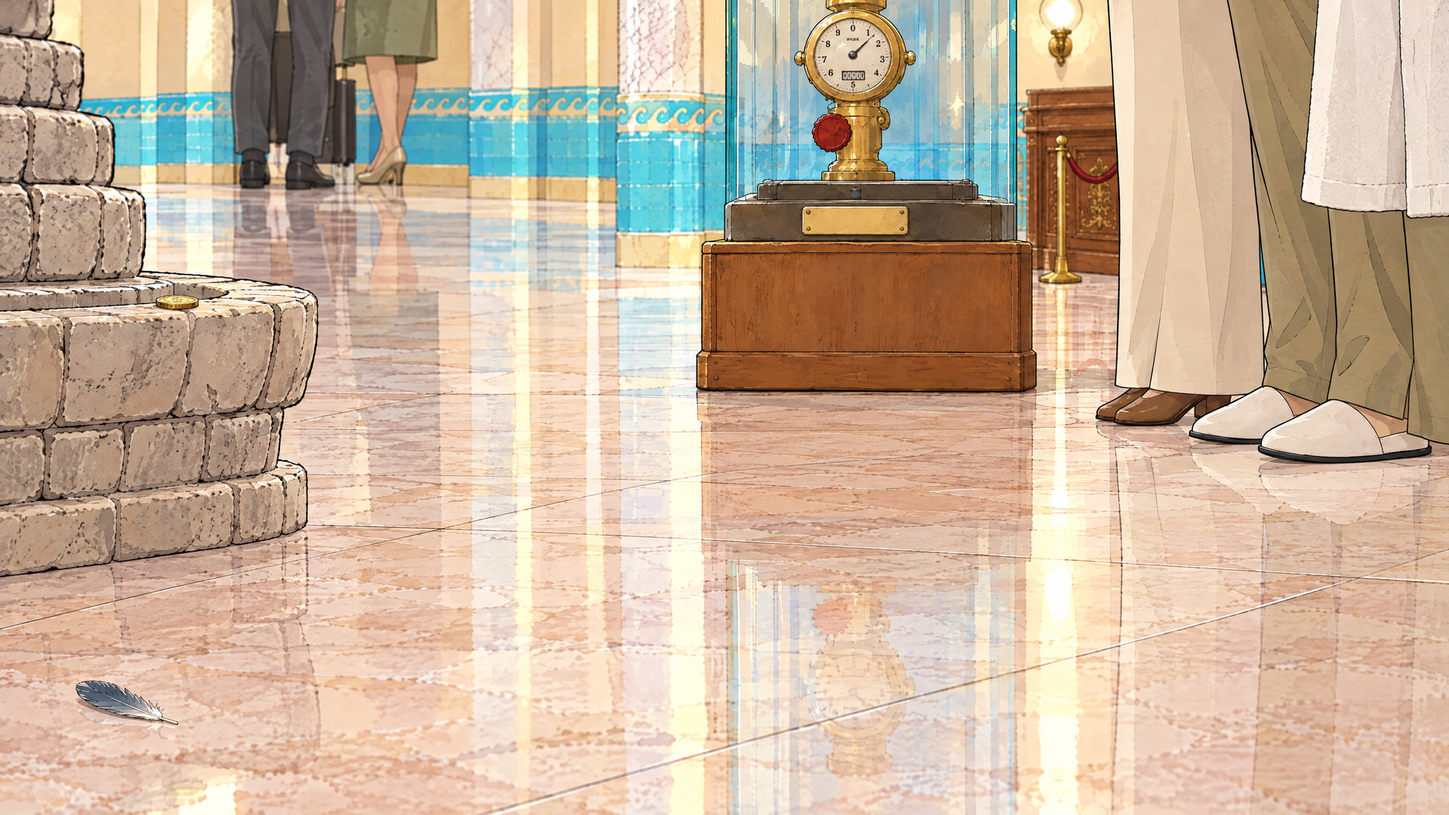
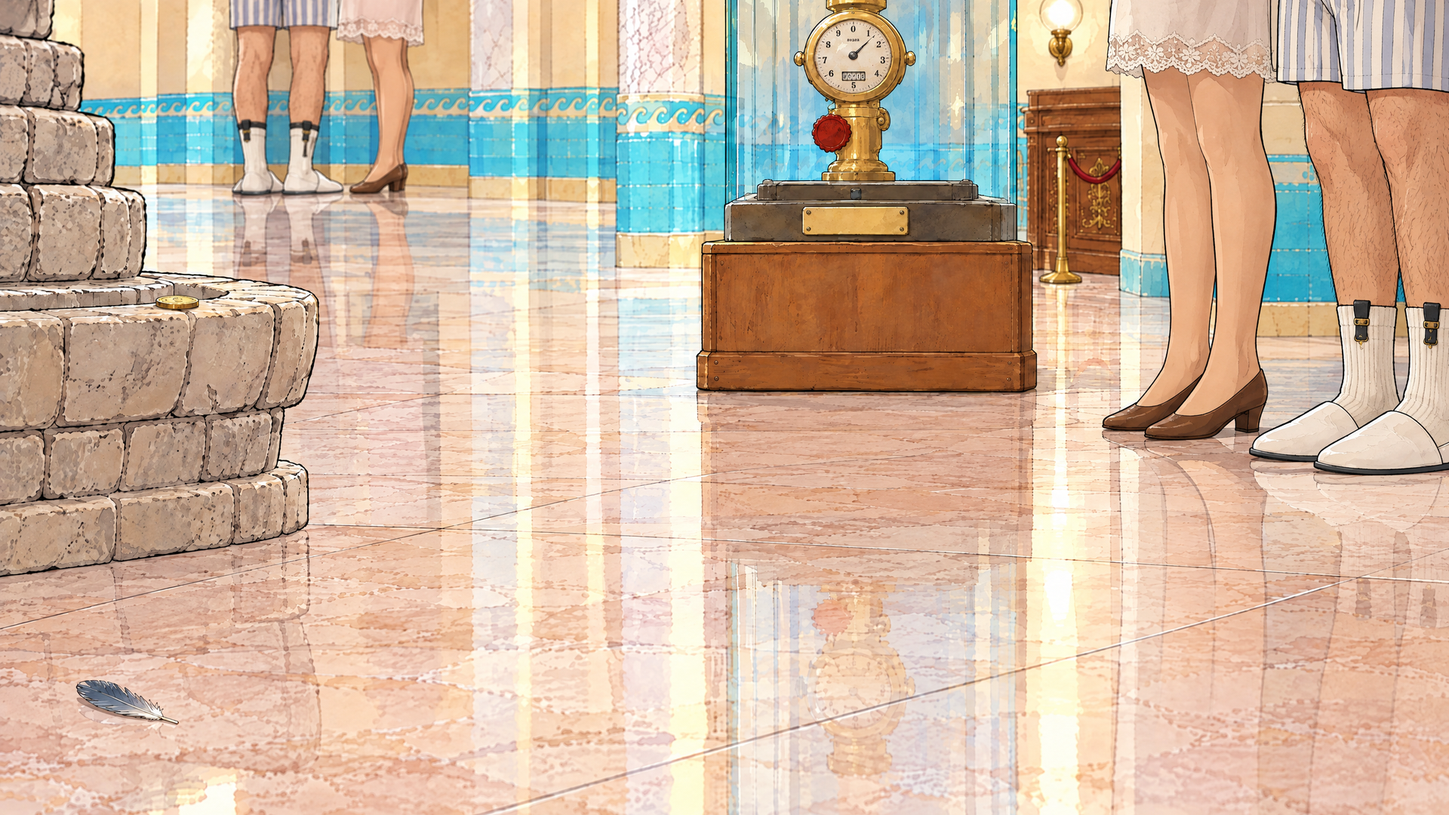
Пакет 6, ред. 2: юбка — шторка вбок; толпа полураздета во всей графике
Решения автора 12.10.2026: юбка тележки отодвигается вбок на кольцах (ov_skirt,
ov_skirt_open, fr_a3_dark переделаны; спека §2.7); гости по возможности раздеты
своими вещами (полотенца и халаты изъяты банным днём), у мужчин на голове
тюрбаном своя рубашка или кофта — в кадрах пакета и в принятых room_w2,
st_w2_cascade_on, st_w2_iz_mic, st_w2u_crowd, st_w2u_parted, zoom_z05,
fr_a4_cascade_duck (кандидаты на замену); реплика SEQ.peek.3 — «И все, как назло,
не вполне голые» (Акт I пересобран). Бейдж Изольды исправлен и в принятом слое
с микрофоном. Новый инструмент tools/assets/refresh_layers.py, grade_dark --no-protect.

Claude-Session: https://claude.ai/code/session_01Dks16BWKXJ1H75RWreeaNq

diff --git a/tools/assets/refresh_layers.py b/tools/assets/refresh_layers.py
@@ -1,0 +1,67 @@
+#!/usr/bin/env python3
+"""Очистить слои экрана от кусков старой основы после правки основы участком (ASSET_SPEC §1.2).
+
+  python tools/assets/refresh_layers.py СТАРАЯ_ОСНОВА.png НОВАЯ_ОСНОВА.png ПАПКА_СЛОЁВ ВЫХОД \
+      [--only st_a,st_b] [--diff 30] [--same 40]
+
+Слой вырезан из кадра-варианта со своим краем фона: если основу потом поправили (переодели толпу),
+в краях слоя остаются кусочки старой основы — на новой основе они видны пятнами (синий лоскут
+старых джинсов рядом со стопкой бланков). Здесь у каждого слоя этой основы (по cutouts.json папки)
+там, где основа изменилась (разница > --diff), гасится альфа пикселей, почти совпадающих со старой
+основой (разница < --same): это не предмет слоя, а его фон. Предмет, отличный от старой основы,
+остаётся. Слои, которым нечего чистить, не пишутся. ВЫХОД — папка для исправленных слоёв (кандидаты);
+cutouts.json туда пишется с теми же координатами.
+"""
+import argparse
+import json
+from pathlib import Path
+
+import numpy as np
+from PIL import Image, ImageFilter
+
+
+def main(argv=None):
+    ap = argparse.ArgumentParser()
+    ap.add_argument("old")
+    ap.add_argument("new")
+    ap.add_argument("layers")
+    ap.add_argument("out")
+    ap.add_argument("--only", default="")
+    ap.add_argument("--diff", type=int, default=30)
+    ap.add_argument("--same", type=int, default=40)
+    a = ap.parse_args(argv)
+    old = np.asarray(Image.open(a.old).convert("RGB")).astype(int)
+    new = np.asarray(Image.open(a.new).convert("RGB")).astype(int)
+    changed = np.abs(old - new).max(2) > a.diff
+    changed = np.asarray(Image.fromarray(changed.astype("uint8") * 255).filter(ImageFilter.MaxFilter(5))) > 0
+    src = Path(a.layers)
+    coords = json.loads((src / "cutouts.json").read_text(encoding="utf-8"))
+    only = set(filter(None, a.only.split(",")))
+    out = Path(a.out)
+    out.mkdir(parents=True, exist_ok=True)
+    out_json = out / "cutouts.json"
+    out_coords = json.loads(out_json.read_text(encoding="utf-8")) if out_json.exists() else {}
+    base_name = Path(a.old).name
+    for name, v in sorted(coords.items()):
+        if v["base"] != base_name or (only and name not in only):
+            continue
+        x, y, w, h = v["x"], v["y"], v["w"], v["h"]
+        lay = np.asarray(Image.open(src / f"{name}.png").convert("RGBA")).astype(int)
+        ch = changed[y:y + h, x:x + w]
+        stale = ch & (lay[..., 3] > 0) & (np.abs(lay[..., :3] - old[y:y + h, x:x + w]).max(2) < a.same)
+        if not stale.any():
+            continue
+        # мягкий край: гасим с растушёвкой 2 px, чтобы не было рваной кромки
+        m = Image.fromarray((stale * 255).astype("uint8")).filter(ImageFilter.MaxFilter(3)).filter(
+            ImageFilter.GaussianBlur(1.5))
+        keep = 1 - np.asarray(m).astype(float) / 255
+        lay[..., 3] = (lay[..., 3] * keep).astype(int)
+        Image.fromarray(lay.astype("uint8"), "RGBA").save(out / f"{name}.png")
+        out_coords[name] = v
+        print(f"{name}: погашено {int(stale.sum())} px старой основы")
+    out_json.write_text(json.dumps(dict(sorted(out_coords.items())), ensure_ascii=False, indent=1) + "\n",
+                        encoding="utf-8")
+
+
+if __name__ == "__main__":
+    main()

diff --git a/tools/assets/grade_dark.py b/tools/assets/grade_dark.py
@@ -10,7 +10,8 @@
 
 Коррекция: в линейном свете яркость умножается на --k, светлые места (лампы, блики) защищены —
 чем ярче пиксель, тем меньше его гасят; тени холодеют (меньше красного, больше синего);
-по краям кадра виньетка.
+по краям кадра виньетка. --no-protect — без защиты светлого: для оверлея юбки
+(ov_skirt_dark), где светлая ткань не лампа и должна погаснуть вместе с кадром.
 """
 import argparse
 
@@ -20,12 +21,12 @@ from PIL import Image
 W, H = 1920, 1080
 
 
-def grade(rgb, ox, oy, k):
+def grade(rgb, ox, oy, k, keep_lights=True):
     s = rgb / 255.0
     lin = s ** 2.2
     lum = 0.2126 * s[..., 0] + 0.7152 * s[..., 1] + 0.0722 * s[..., 2]
     t = np.clip((lum - 0.55) / 0.40, 0, 1)
-    protect = t * t * (3 - 2 * t)
+    protect = t * t * (3 - 2 * t) if keep_lights else np.zeros_like(t)
     f = k + (1 - k) * 0.85 * protect
     out = lin * f[..., None]
     cool = 1 - protect
@@ -44,12 +45,14 @@ def main(argv=None):
     ap.add_argument("dst")
     ap.add_argument("--offset", default="0,0")
     ap.add_argument("--k", type=float, default=0.32)
+    ap.add_argument("--no-protect", action="store_true",
+                    help="не беречь светлое: для ткани юбки, которая светлая сама по себе, а не лампа")
     a = ap.parse_args(argv)
     ox, oy = map(int, a.offset.split(","))
     im = Image.open(a.src)
     rgba = im.mode == "RGBA"
     arr = np.asarray(im.convert("RGBA" if rgba else "RGB")).astype(float)
-    out = grade(arr[..., :3], ox, oy, a.k)
+    out = grade(arr[..., :3], ox, oy, a.k, keep_lights=not a.no_protect)
     if rgba:
         out = np.dstack([out, arr[..., 3].astype(np.uint8)])
     Image.fromarray(out, "RGBA" if rgba else "RGB").save(a.dst)

diff --git a/work/higgsfield/candidates/pack6_1012/README.md b/work/higgsfield/candidates/pack6_1012/README.md
@@ -1,55 +1,72 @@
-# Пакет 6 (12.10.2026): юбка тележки и кадры немых сцен
+# Пакет 6 (12.10.2026): юбка тележки, кадры немых сцен, полураздетая толпа
 
-Листы для автора: `work/higgsfield/sheet_1012_pack6_frames.png` (17 кадров; виды из-под юбки показаны уже с наложенной юбкой, как их увидит игрок) и `work/higgsfield/sheet_1012_pack6_skirt.png` (юбка на принятых кадрах, тёмный вариант, шторка у экспоната). Всё здесь — кандидаты; в `assets/` попадает только после «да» автора.
+Листы для автора: `work/higgsfield/sheet_1012_pack6_frames.png` (17 кадров; виды из-под юбки показаны уже с наложенной юбкой, как их увидит игрок), `work/higgsfield/sheet_1012_pack6_skirt.png` (юбка на принятых кадрах, тёмный вариант, шторка у экспоната) и `work/higgsfield/sheet_1012_pack6_crowd.png` (принятые картинки с толпой: было / стало). Всё здесь — кандидаты; в `assets/` попадает только после «да» автора.
 
-Генератор — GPT Image 2.5, high 2k, 16:9 (решение автора 12.10.2026: модель не меняем). Правило партии то же, что в пакете 5: каждая вещь рисуется по кадру, где она уже нарисована и принята. Референсы (записи `upload` в `log.jsonl`): `room_w1`, `room_w2` с Изольдой, двери служебного лифта из `room_w2`, `room_w2_under` и толпа `st_w2u_crowd`, `room_w3`, `room_w4`, `zoom_z02`, `zoom_z03` (ткань юбки), `zoom_z05`, `zoom_z11`, жетон из Z13, мыльная рука из Z11. Яркость всех кадров — 33–72 %; исключение — `fr_a3_dark` (5 %, разрешено решением автора 06.10.2026).
+Генератор — GPT Image 2.5, high 2k (решение автора 12.10.2026: модель не меняем). Правило партии то же, что в пакете 5: каждая вещь рисуется по кадру, где она уже нарисована и принята. Референсы — записи `upload` в `log.jsonl`. Яркость всех кадров 33–75 %; исключение — `fr_a3_dark` (8 %, разрешено решением автора 06.10.2026).
+
+## Решения автора 12.10.2026 (вторая половина дня)
+
+1. **Юбка — шторка вбок.** «Юбка везде нарисована неправильно: мы решили, что она отодвигается вбок как шторка, а не поднимается вверх как театральный занавес». Первая редакция (ткань с бахромой свисает сверху) снята. Теперь сверху видны низ столешницы, латунная штанга и кольца, ткань сдвинута к краям и висит до пола, бахрома только внизу. Спека §2.7 поправлена.
+2. **Толпа полураздета на всех картинках, включая принятые.** «Смешнее, если люди по возможности раздеты; особенно смешно, если у некоторых мужчин полотенце по-женски завёрнуто на голове». Полотенца и халаты по объявлению банного дня изъяты, поэтому по ответу автора гости в своём: майки, подтяжки, семейные трусы, кальсоны, носки на подвязках, комбинации, ночнушки, бигуди, а мужчины наматывают на голову по-женски свою рубашку или кофту. Спека §1.4 поправлена.
+3. **Реплика `SEQ.peek.3`:** «Человек сорок. И все, как назло, не вполне голые» — слово автора; внесено в `texts/rewrite/ACT1_TEXTS_EDITS.md`, `ACT1_TEXTS_FINAL.md` пересобран, `check_texts.py` — без ошибок.
 
 ## Юбка тележки (оверлеи, §2.7)
 
 | Файл | Что | Проба |
 |---|---|---|
-| `ov_skirt.png` | края юбки изнутри: сверху полоса затенённой ткани, по её нижнему краю висит бахрома, по бокам — боковые полотнища, низ открыт; сквозь ткань чуть проступают швы кармашков (та же юбка, что в Z03, только с изнанки) | 81f72fc3 (вторая из трёх) |
-| `ov_skirt__alt3.png` | то же, темнее и без кармашков | f8fd613c |
-| `ov_skirt__alt1.png` | первая проба: светлая, как занавес снаружи; отклонена мной (видна лицевая сторона, «театр») | 552df629 |
-| `ov_skirt__dark.png` | `ov_skirt` после той же коррекции `grade_dark.py`, что тёмные кадры до появления Кухтулху (см. вопрос 1) | — |
-| `ov_skirt_open.png` | шторка отодвинута: ткань собрана на кольцах у краёв (по 12 % ширины), сверху край столешницы (8 %); для Z05 | 7052eeed |
+| `ov_skirt.png` | шторка отодвинута вбок: сверху полоса 9 % — низ столешницы, рама, штанга, кольца; по бокам ткань висит от колец до пола (по 10 % ширины), бахрома у пола | 7534bce7 |
+| `ov_skirt__alt2.png` | то же, правое полотнище шире | 48c586ba |
+| `ov_skirt__dark.png` | `ov_skirt` после `grade_dark.py --no-protect --k 0.30` — для тёмных кадров до появления Кухтулху (вопрос 1) | — |
+| `ov_skirt_open.png` | шторка отодвинута до упора: ткань туго собрана у краёв (по 9 %), сверху штанга; для Z05 | 1841b488 |
 
-Генератор рисовал юбку на мадженте. `tools/assets/skirt_overlay.py` (новый) вырезает мадженту и подтягивает верхнюю полосу: у генератора бахрома кончалась на 38 % высоты, по спеке — 18–22 %. Лишняя ткань сверху срезается, бахрома остаётся в натуральную величину и кончается на 21 %; бока — 8 % ширины (спека 8–10 %). Проверено на всех видах из-под юбки: ноги, предметы и лампа поста в кадре лифта под юбку не уходят.
+Юбка нарисована на мадженте; `tools/assets/skirt_overlay.py` (новый) вырезает мадженту без розовой каймы и, если надо, подтягивает верхнюю полосу к норме спеки. `tools/assets/grade_dark.py` получил ключ `--no-protect`: светлая ткань не лампа и должна гаснуть вместе с кадром.
 
 ## Кадры (§4.1)
 
 | Файл | Кадр | Что | Проба |
 |---|---|---|---|
-| `fr_a1_voucher.png` | `OPEN.1_voucher` | сухие руки в рукавах тёмно-синего пиджака (того, что потом крутится в барабане W3) держат путёвку с гильоширной рамкой, строчки — в размытие; позади номер 317 как на `room_w1`, душевая с уточкой. Гэг: вместо скрепки морская звезда | 7c2820ff |
-| `fr_a1_corridor.png` | `SEQ.peek.1_corridor` | из двери номера: пустой коридор, ковровая дорожка, в конце двери служебного лифта (латунные, с ракушкой — как в вестибюле); мыльная рука на косяке. Гэги: ботинки у двери с ракушкой внутри, поднос с пустой подставкой для яйца | 325befca |
-| `fr_a1_lift_panel.png` | `SEQ.peek.2_lift` | панель: «5», «4», «3», «2», «Вестибюль»; на месте снятых кнопок — две заглушки на винтах (служебных этажей нет — это и видно); мыльный палец у «Вестибюля». Гэг: морская звезда-наклейка | abbe3af7 |
-| `fr_a1_lobby_peek.png` | `SEQ.peek.3_lobby` | щель дверей лифта: людный вестибюль, толпа у стойки **одета** (маска на лице, зубная щётка, пена для бритья, бигуди под платком), Изольда смотрит мимо и прижимает папкой мокрый круг с лучами, над толпой «Банный день», каскад сухой | 1083d9fe (четвёртая из пяти) |
-| `fr_a1_lobby_waiter.png` | `SEQ.peek.4_waiter` | тот же вид: официант катит тележку (звёзды, юбка с кармашками) сквозь толпу, гости расступаются, не глядя; Изольда поднимает откидную секцию стойки, глаз не поднимает | ca6c1b78 (от 1083d9fe); запасная — `__alt4` (5634b4ca) |
-| `fr_a1_lift_close.png` | `SEQ.peek.5_back` | латунные створки почти сошлись, в щели — полоска вестибюля | 48b07ab3 (от 1083d9fe) |
-| `fr_a1_under_room.png` | `SEQ.drive.1_under` | из-под юбки в номере: мыльная рука на нижнем латунном поручне, ковёр, закрытая дверь с листком, крючки. Гэги: носок и пуговица под кроватью | df050f8c |
-| `fr_a1_under_liftdoors.png` | `SEQ.drive.2_lift` | из кабины: латунный порог, «мрамор», ботинки, туфли, тапочки. Гэг: потерянный синий тапок (тот же, что на `room_w2_under`), скомканная жалоба | 18c07126 |
-| `fr_a1_under_lobby.png` | `SEQ.drive.3_lobby` | посреди вестибюля: ноги идут мимо, к тележке никто не повёрнут; вдали основание сухого каскада. Гэги: волочится пояс халата, детская сандалия | e69587ab |
-| `fr_a1_under_service.png` | `END.act1`, `SEQ.shout.5` | за стойкой: внутренние полки (бланки, папки, штемпели, термос, клубок), туфли Изольды в профиль, слева закрытая калитка, под ней — ноги толпы. Гэг: морская звезда как пресс-папье | 37189200 |
-| `fr_a2_under_exhibit.png` | `SEQ.exhibit.go` | у экспоната: витрина со счётчиком, у таблички бежевые брюки с туфлями и белые тапочки (те же ноги, что в Z05), слева сухой каскад. Гэг: монетка на бортике и перо | e269e3db |
-| `fr_a3_lobby_hush.png` | `SEQ.report` | вестибюль затих: все ноги повёрнуты к громкоговорителю на колонне справа; брошенный тапок носком в другую сторону, опрокинутая чашка | 6c6a9add (третья из трёх); запасная `__alt1` (ed6be58e) |
-| `fr_a3_ride_under.png` | `SEQ.ride` | из-под юбки в кабине 1908 года: мыльная рука задёргивает латунную решётку, за прутьями горит лампа поста (под юбкой не прячется); на полу крошки круассана | 42a6214f (вторая; в первой `__alt1`, c4ed249f, лампа уходила под верх юбки) |
-| `fr_a3_dark.png` | `SEQ.descent` | темнота под юбкой, складки и кармашки едва видны, под краем бахромы — тонкая полоска тёплого света. Юбка здесь нарисована в самом кадре (спека §4.2: в `SEQ.descent` оверлея нет) | a3ec8012 (от `ov_skirt`); запасная `__alt2` (f4964c8b, темнее, 3 %) |
-| `fr_epi_laundry.png` | `EPI.*` | прачечная как `room_w3`, вода есть: барабаны крутятся, люк ближней машины открыт и парит, на машине сложены пиджак, рубашка, галстук, пар; мокрый пол | bdaff360 |
-| `fr_epi_minibar.png` | `EPI.0–2` | как `zoom_z02`: на ручке новое меню (чистая карточка), в мини-баре кефир вместо комбучи. Гэг: моль из Z02 сидит на крышке кефира | c8bc17fb |
-| `fr_epi_bath17.png` | `EPI.3` | коридор водолечебницы 1908 года: дверь с эмалевой табличкой «№ 17», над табличкой латунный жетон с пробитой серединой, из-под двери пар. Гэг: у двери тапки — белый и синий | ad8561dc |
+| `fr_a1_voucher.png` | `OPEN.1_voucher` | сухие руки в рукавах тёмно-синего пиджака держат путёвку с гильоширной рамкой, строчки в размытие; позади номер 317, душевая с уточкой. Гэг: морская звезда вместо скрепки | 7c2820ff |
+| `fr_a1_corridor.png` | `SEQ.peek.1_corridor` | из двери номера: пустой коридор, ковровая дорожка, в конце латунные двери служебного лифта; мыльная рука на косяке. Гэги: ботинки с ракушкой, поднос с пустой подставкой для яйца | 325befca |
+| `fr_a1_lift_panel.png` | `SEQ.peek.2_lift` | «5», «4», «3», «2», «Вестибюль»; на месте снятых кнопок — заглушки на винтах; мыльный палец у «Вестибюля». Гэг: морская звезда-наклейка | abbe3af7 |
+| `fr_a1_lobby_peek.png` | `SEQ.peek.3_lobby` | щель дверей лифта: у стойки полураздетая толпа (майки, подтяжки, трусы в полоску, носки на подвязках, комбинации, бигуди, у мужчин свитер тюрбаном; маска на лице, зубная щётка, пена для бритья), Изольда одета, смотрит мимо, прижимает папкой мокрый круг с лучами; «Банный день», сухой каскад | 4760d6bf; бейдж переписан |
+| `fr_a1_lobby_waiter.png` | `SEQ.peek.4_waiter` | тот же вид: официант с тележкой сквозь толпу, гости расступаются, не глядя; Изольда поднимает откидную секцию стойки, глаз не поднимает | 56d37be6 (от 4760d6bf); бейдж переписан |
+| `fr_a1_lift_close.png` | `SEQ.peek.5_back` | створки почти сошлись, в щели — полоска вестибюля и гость в майке со свитером на голове | 03cbccdf |
+| `fr_a1_under_room.png` | `SEQ.drive.1_under` | из-под юбки в номере: мыльная рука на нижнем латунном поручне, ковёр, закрытая дверь с листком. Гэги: носок и пуговица под кроватью | df050f8c |
+| `fr_a1_under_liftdoors.png` | `SEQ.drive.2_lift` | из кабины: латунный порог, «мрамор», ноги в носках на подвязках, комбинации, тапки, босые ступни. Гэг: потерянный синий тапок | 771187f1 |
+| `fr_a1_under_lobby.png` | `SEQ.drive.3_lobby` | посреди вестибюля: ноги в пижамных шортах и носках на подвязках идут мимо, к тележке никто не повёрнут; вдали сухой каскад. Гэги: детская сандалия, волочится пояс | ae4c4205 (первая проба генератор не нарисовал — отказ по содержанию; формулировка смягчена) |
+| `fr_a1_under_service.png` | `END.act1`, `SEQ.shout.5` | за стойкой: полки с бланками, штемпелями, термосом; туфли Изольды в профиль (она одета), слева закрытая калитка, под ней — ноги толпы в носках на подвязках и тапках | 9e657d2f |
+| `fr_a2_under_exhibit.png` | `SEQ.exhibit.go` | у экспоната: витрина со счётчиком; у таблички — те же двое, что в Z05: она в комбинации и коричневых туфлях, он в трусах в полоску, носках на подвязках и тапках | f107a176 |
+| `fr_a3_lobby_hush.png` | `SEQ.report` | вестибюль затих: все ступни в профиль повёрнуты к громкоговорителю на колонне справа; брошенный тапок носком в другую сторону, опрокинутая чашка | 505a3247 |
+| `fr_a3_ride_under.png` | `SEQ.ride` | из-под юбки в кабине 1908 года: мыльная рука задёргивает латунную решётку, за прутьями горит лампа поста; крошки круассана | 42a6214f |
+| `fr_a3_dark.png` | `SEQ.descent` | шторка задёрнута вокруг (кольца на штанге наверху, швы кармашков), почти черно, под подолом с бахромой — полоска тёплого света; юбка в самом кадре, оверлея нет (§4.2) | 3b35f866 |
+| `fr_epi_laundry.png` | `EPI.*` | прачечная, вода есть: барабаны крутятся, люк ближней машины открыт и парит, на машине сложены пиджак, рубашка, галстук | bdaff360 |
+| `fr_epi_minibar.png` | `EPI.0–2` | как Z02: на ручке новое меню (чистая карточка), кефир вместо комбучи. Гэг: моль на крышке кефира | c8bc17fb |
+| `fr_epi_bath17.png` | `EPI.3` | коридор водолечебницы: дверь с табличкой «№ 17», жетон с пробитой серединой, пар из-под двери. Гэг: тапки — белый и синий | ad8561dc |
 
-**Исправлено после генерации.** (1) В первых пробах вестибюля (3783efc7, 30478c05, c4f2d129) толпа была в халатах и полотенцах, у одного голый торс, у одной гостьи лифчик. А в тексте `SEQ.peek.3` Лапидус говорит: «Человек сорок. И все, как назло, одетые». Перерисовано (1083d9fe), официант и закрытие дверей — заново от новой пробы. Кроме того, в одной из проб (3783efc7) в глубине вестибюля стоял тот самый лифт, из которого мы смотрим. (2) На бейдже Изольды генератор написал «И. С. Травина»; надпись переписана на «И. Т. Итьева» (`tools/assets/badge_text.py`, новый) в `fr_a1_lobby_peek` и `fr_a1_lobby_waiter`. В запасной `__alt4` бейдж не правлен.
+Бейдж Изольды генератор каждый раз пишет неверно (например, «И. С. Травина»); надпись переписана на «И. Т. Итьева» новым `tools/assets/badge_text.py`.
+
+## Принятая графика — толпа переодета (замена после «да»)
+
+| Файл | Что изменено | Как |
+|---|---|---|
+| `room_w2.png` | четверо у стойки и трое прохожих у витрины полураздеты, позы и лица прежние | участки 300,180–900,600 (2b9871dc) и 1420,260–1740,580 (791f4ec1) ×3–4, `patch_region.py --wide`, вклейка с растушёвкой 12 px |
+| `st_w2_forms1`, `st_w2_forms3`, `st_w2_kefir`, `st_w2_vitrine_open` | из краёв слоёв убраны кусочки старой одежды (на новой основе были бы синими и рыжими пятнами) | новый `tools/assets/refresh_layers.py`; `st_w2_iz` и `st_w2_complaints` чистка портила сами предметы — оставлены как были, пятен на них нет |
+| `st_w2_iz_mic`, `st_w2_cascade_on` | те же люди в том же белье, позы этих состояний прежние; в `st_w2_iz_mic` заодно исправлен бейдж — в принятом слое генератор написал чужую фамилию | участки вариантов (c49ce600, 2f2de34a; b175e13f, b11e0e18) от новой основы, слой = новый вариант под прежней альфой ∪ вклеенные участки |
+| `fr_a4_cascade_duck.png` | то же в финале | участки 5a2a5925, d5083af5 |
+| `st_w2u_crowd`, `st_w2u_parted` | ноги у калитки: голые ноги в носках на подвязках, трусы в полоску, кальсоны, комбинации, тапки, босые ступни | на мадженте от принятых 1856448b и 4041eed3 (66f83647, d057fd60), `chroma_layer.py --scale 1.15 --floor-y 740`, как раньше; проход в толпе — напротив калитки |
+| `zoom_z05.png` | ноги у витрины: комбинация и трусы в полоску вместо брюк | участок 1312,0–1920,1080 (6c7f29ff), вклеен целиком, растушёвка слева |
+
+Прежние версии после «да» уходят в `work/orig_gfx/` (`…__одетые_до_12.10`).
 
 ## Вопросы автору
 
-1. **Юбка на тёмных кадрах.** По решению 12.10.2026 всё до появления Кухтулху тёмное, а у `ov_skirt` бахрома подсвечена тёплым светом, и на тёмном кадре прибытия она светится (лист юбки, второй ряд). Предлагаю второй файл `ov_skirt_dark.png` (та же юбка через ту же коррекцию, что кадры). Движок берёт его в `SEQ.descent`, `END.act3`, `OPEN.arrive`, `OPEN.steps`, `OPEN.anc` Акта IV, `SEQ.rollout` … `SEQ.wait`. Других файлов это не меняет; в спеке станет на один оверлей больше. Другой путь — затемнять юбку в движке, но тогда она не совпадёт с кадрами по цвету.
-2. **Номера и кнопки.** Спека §4.1 (06.10) просит чистые таблички дверей коридора и кнопки без надписей, а более позднее решение 08.10 (§1.5) — «текст рисует генератор: номера дверей, кнопки лифта, ванная № 17». Я сделал по позднему решению. Сейчас на дверях коридора стоят номера 306 и 307, хотя номер героя 317. Это мелко, но заметно; если надо, впишу 316/318 так же, как бейдж. Этажи в лифте («5…2, Вестибюль») придуманы: в текстах сказано только «этажи номеров и вестибюль».
-3. **Кадр в кабине `fr_a3_ride_under` светлый.** Это ещё верхний зал (лампа поста, бирюзовый кафель), и я понял решение 12.10 «темно до появления Кухтулху» как правило для низа, начиная со спуска. Если и этот кадр должен быть тёмным — затемню той же коррекцией.
+1. **Юбка на тёмных кадрах.** Светлая шторка на тёмном кадре прибытия выбивается. Предлагаю второй файл `ov_skirt_dark.png` (на листе юбки) для `SEQ.descent` … `SEQ.wait` Акта IV; другой путь — затемнять юбку в движке.
+2. **Номера и кнопки.** На дверях коридора номера 306/307 (у героя 317), этажи лифта «5…2, Вестибюль» придуманы — сделано по решению 08.10 «текст рисует генератор» (спека §4.1 ещё просит чистые таблички). Если надо — впишу 316/318.
+3. **Кадр в кабине `fr_a3_ride_under`** (ещё наверху) оставлен светлым.
+4. **Шторка закрывает край кадра.** Новая шторка по бокам шире прежней «бахромы» (10 % ширины) и прячет то, что художник поставил у самого края: у экспоната (`fr_a2_under_exhibit`, Z05 со `ov_skirt_open`) видны ноги гостьи, а её спутник почти скрыт; в затихшем вестибюле громкоговоритель — у самой штанги. Если важно, перерисую эти кадры с людьми ближе к середине.
 
-## Найдено попутно (не арт)
-
-`OPEN.1_voucher`: спека §4.2 — «портрет без пены», а в итоговом тексте Акта I у реплик этого слота портрет `lap_soap_neutral`/`lap_soap_smug` (с пеной; путёвку он держит до душа). Это правка текстов через `texts/polish/ACT1_TEXTS_EDITS.md`, если автор согласен.
+Попутно (не арт): `OPEN.1_voucher` — портрет в тексте с пеной, а по спеке §4.2 без пены (путёвку он держит до душа).
 
 ## После «да»
 
-Перенести 17 кадров в `assets/gfx/frames/`, `ov_skirt.png` и `ov_skirt_open.png` — в `assets/gfx/cutouts/` (оверлеи кадра целиком, в `cutouts.json` не пишутся). По ответу на вопрос 1 — ещё `ov_skirt_dark.png` и строка в спеке. Будет готово **221 из 263** рисунков (84 %). Дальше по плану: 31 носитель документов (в т. ч. `photo_family`), 9 иконок, титул (`bg_title`, `logo_title`, `icon_512`).
+17 кадров → `assets/gfx/frames/`; `ov_skirt`, `ov_skirt_open` → `assets/gfx/cutouts/` (кадр целиком, без записи в `cutouts.json`); замены принятых: `room_w2`, `zoom_z05`, `fr_a4_cascade_duck` и слои из `cutouts.json` этой папки. Будет готово **221 из 263** рисунков (84 %). Дальше: 31 носитель документов (в т. ч. `photo_family`), 9 иконок, титул.

diff --git a/docs/BJ3_ASSET_SPEC.md b/docs/BJ3_ASSET_SPEC.md
@@ -68,7 +68,7 @@
 
 - **Первое лицо. Лапидуса не видно.** Можно: его **мыльные руки** в кадре (белые хлопья пены на коже, до запястья — предплечья), **отражение в зеркале Z11** — только до груди (§3, Z11), портрет в окне реплик. Ниже пояса героя — ничего, ни в каком кадре.
 - **Стоя** — глаза на высоте ≈ 1,6 м. **Из-под юбки тележки** — горизонтально, на высоте ≈ 30 см, «на уровне обуви»: люди видны до колен, **снизу вверх на людей не смотрим** (вуайеризма нет). Сами виды из-под юбки рисуются **без юбки**: края юбки накладывает движок оверлеем `ov_skirt.png` (§2.7) — так все такие кадры одинаковы.
-- Людность вестибюля — гости-статисты без лиц крупным планом; лиц-«узнаваемых» персон нет. Кота нет. Животных нет.
+- Людность вестибюля — гости-статисты без лиц крупным планом; **гости полураздеты своими вещами** (решение автора 12.10.2026: «смешнее, если люди по возможности раздеты»): майки, подтяжки, семейные трусы, кальсоны, носки на подвязках, комбинации, ночнушки, бигуди; у мужчин на голове по-женски намотана своя рубашка или кофта. Гостиничных полотенец и халатов нет ни на ком — их изъяли (объявление банного дня); прилично, без наготы; лиц-«узнаваемых» персон нет. Кота нет. Животных нет.
 - **Вода в финале — прямо (решение автора 11.10.2026: «не вижу объяснения правилу… я бы наоборот показал в финале набор кадров, что вода появилась везде, где её не было»; отменены S3 §15 п. 3 и 7 и строка «финальная вода показана только косвенно» в S3 и сдаче Акта IV).** До пуска воды нигде нет, кроме вступления (`OPEN.2_shower`) и пещеры Кухтулху W5–W6 (решение автора 06.10.2026, §13 п. 15: полузатоплена — стоячая вода, природа, не подача). В финальном монтаже `SEQ.finale` вода видна везде, где её не было: душ в номере, фонтан каскада в вестибюле (подбрасывает уточку к люстре), барабаны прачечной, источник под стеклом в зале прекраснодушия; в пещере — `st_w5_water`, `st_w6_water`.
 
 ### 1.4а. Размеры и двери (решение автора 08.10.2026, независимая проверка топологии — `review/TOPOLOGY_REVIEW_FABLE.md`)
@@ -259,8 +259,8 @@
 
 | Файл | Размер | Что |
 |---|---|---|
-| `ov_skirt.png` | 1920×1080 RGBA | края юбки тележки изнутри: тяжёлая бежевая ткань с бахромой сверху и по бокам кадра (верх — 18–22 % высоты, бока — по 8–10 % ширины), низ открыт полоской пола; внутренняя сторона в тени. Накладывается на все виды «из-под юбки» |
-| `ov_skirt_open.png` | 1920×1080 RGBA | шторка юбки отодвинута: ткань собрана складками на кольцах у краёв кадра, бахрома по бокам (по 10–12 % ширины), сверху край столешницы. Для `zoom_z05.png` |
+| `ov_skirt.png` | 1920×1080 RGBA | юбка — шторка на кольцах, отодвинута вбок (решение автора 12.10.2026: «отодвигается вбок как шторка, а не поднимается вверх как театральный занавес»): сверху узкая полоса (≈ 9 % высоты) — низ столешницы, латунная рама, штанга и кольца; по бокам ткань висит от колец до пола (≈ 10–12 % ширины), бахрома только по низу, у пола; середина открыта. Накладывается на все виды «из-под юбки» |
+| `ov_skirt_open.png` | 1920×1080 RGBA | шторка отодвинута до упора: ткань туго собрана на кольцах у краёв кадра (≈ 9 % ширины), бахрома только внизу, у пола; сверху край столешницы со штангой (≈ 8 %). Для `zoom_z05.png` |
 
 ### 2.8. W6 — контора старшего по воде · `room_w6.png`
 
@@ -395,7 +395,7 @@
 | `fr_a2_under_exhibit.png` | 1920×1080 RGB | из-под юбки у экспоната: низкая витрина справа, у таблички туфли гостьи и тапочки её спутника, вестибюль дальше |
 | `fr_a3_lobby_hush.png` | 1920×1080 RGB | из-под юбки: затихший вестибюль — все ботинки, туфли и тапочки повёрнуты носками в одну сторону, к динамику на колонне |
 | `fr_a3_ride_under.png` | 1920×1080 RGB | из-под юбки в кабине: пол кабины, край юбки; мыльная рука задёргивает решётку изнутри, за прутьями мигает лампа поста (решение автора 08.10.2026: «Вниз» нажат снаружи, лифт ждёт закрытой решётки) |
-| `fr_a3_dark.png` | 1920×1080 RGB | темнота под юбкой при спуске; по нижнему краю, под краем юбки, — тонкая полоска света (по сдаче Акта III; исключение из нормы яркости — решение автора 06.10.2026) |
+| `fr_a3_dark.png` | 1920×1080 RGB | темнота под юбкой при спуске: шторка задёрнута вокруг, ткань висит от колец до пола; по нижнему краю, под подолом с бахромой, — тонкая полоска света (по сдаче Акта III; исключение из нормы яркости — решение автора 06.10.2026) |
 | `fr_a3_under_arrive.png` | 1920×1080 RGB | из-под юбки из кабины: решётка открыта, мокрый кафель приёмного пункта, ножка стола приёма, капли |
 | `fr_epi_laundry.png` | 1920×1080 RGB | прачечная: люк барабана открыт, на крышке барабана сложена влажная одежда Лапидуса (пиджак, рубашка, галстук), пар |
 | `fr_epi_minibar.png` | 1920×1080 RGB | номер 317: открытый мини-бар, на ручке новое меню (чистая карточка), на полке бутылка кефира |
@@ -917,6 +917,8 @@
 **Решения автора 11.10.2026 — зеркало прекраснодушия:** матовой нижней части нет ни в одном кадре (`st_w4_mirror`, `st_w4_mirror_aside`, `st_z11_mirror`, `st_z11_mirror_aside`); в Z11 Лапидус отражается во весь рост, ниже пояса его закрывает резиновая уточка; кадр вантуза — большая рука, отражение в выпаде янычара. Пересматривает решение 06.10.2026 №7. Текст `Z11.mirror.look` (Акт II, «ниже матовый узор») — к правке.
 
 **Решения автора 12.10.2026 — пакет 5:** лучистый оттиск `stamp_kuh` — красный, как на принятых картинках; в кадре `OPEN.steps` кончики щупалец Кухтулху в нарукавниках (как в тексте; принятые `st_w5_kuh`, `st_w5u_tentacles` не меняются); щупальца не должны расти «из ниоткуда» и не должны выглядеть обрубленными: каждое — целое, сужается к тонкому закрученному кончику, нарукавник сидит посередине видимой длины, как на предплечье.
+
+**Решения автора 12.10.2026 — пакет 6:** (1) юбка тележки на всех видах «из-под юбки» — шторка, отодвинутая вбок на кольцах, а не занавес, поднятый вверх (§2.7, `fr_a3_dark` — шторка задёрнута); (2) толпа на всех картинках, включая принятые (`room_w2`, `st_w2_cascade_on`, `st_w2_iz_mic`, `st_w2u_crowd`, `st_w2u_parted`, `zoom_z05`, `fr_a4_cascade_duck`), полураздета своими вещами (§1.4); реплика `SEQ.peek.3`: «Человек сорок. И все, как назло, не вполне голые» (`texts/rewrite/ACT1_TEXTS_EDITS.md`).
 
 **Решение автора 12.10.2026 — «сначала чудовище, потом бухгалтерша»:** до полного появления Кухтулху (`SEQ.come_out`) игрок должен думать, что увидит чудовище; лица не видно. Все кадры до этого момента — тёмные: `fr_a3_under_arrive` (и в `SEQ.descent`, `END.act3`, `OPEN.arrive`), его слой со щупальцами, `room_w5_under` со слоями `st_w5u_reach`, `st_w5u_tentacles`. Затемнение одинаковое для основ и слоёв — `tools/assets/grade_dark.py` (средняя яркость около 18–19 %; исключение из нормы DESIGN_BIBLE §9 «≥ 30 %», как `fr_a3_dark`). Светлее — с `SEQ.come_out`. Музыка тоже разная: до полного появления — тревожная тема «чудовище из глубины», после — принятая `bgm_below` (хабанера); новая тема — в звуковом пакете.
 

diff --git a/PROJECT_STATUS_HYDROUDAR.md b/PROJECT_STATUS_HYDROUDAR.md
@@ -4,11 +4,12 @@
 
 ## Точка входа для новой сессии
 
-- ★★★★★★★ **12.10.2026, позже — ПАКЕТ 6 НА ПРИЁМКЕ: юбка тележки и все оставшиеся кадры немых сцен. ДАЛЬШЕ — с этого пункта.** Ветка `claude/fervent-cerf-gqukn3`. Сессия стартовала с ветки, совпадающей с `origin/main` (f60c987, слияние PR #18); открытых PR не было; впереди `main` только старые хвосты (`art-archive`, `gifted-faraday`, `intelligent-hypatia`).
-  - **Что в пакете (19 файлов):** оверлеи `ov_skirt` (края юбки изнутри; бахрома на 21 % высоты, бока по 8 %) и `ov_skirt_open` (шторка на кольцах, для Z05); 17 кадров `fr_*`: путёвка, коридор, панель лифта, щель в вестибюль, официант, двери сходятся, пять видов из-под юбки в Актах I–II, затихший вестибюль, кабина 1908 года, темнота спуска, прачечная, мини-бар, ванная № 17. Кандидаты и README — `work/higgsfield/candidates/pack6_1012/`; листы — `work/higgsfield/sheet_1012_pack6_frames.png` (виды из-под юбки — уже с юбкой) и `sheet_1012_pack6_skirt.png`.
-  - **Исправлено до показа:** толпа в вестибюле одета (текст `SEQ.peek.3`: «И все, как назло, одетые»; первые пробы были в полотенцах); бейдж Изольды переписан на «И. Т. Итьева» (генератор написал «И. С. Травина») — новый `tools/assets/badge_text.py`. Юбка из мадженты — новый `tools/assets/skirt_overlay.py`.
-  - **Вопросы автору (README пакета):** (1) отдельный тёмный `ov_skirt_dark.png` для кадров до появления Кухтулху — светлая бахрома на тёмном кадре прибытия светится; (2) номера дверей коридора 306/307 при номере героя 317 и придуманные этажи лифта «5…2, Вестибюль» — сделано по решению 08.10 «текст рисует генератор» (спека §4.1 ещё просит чистые таблички); (3) кадр в кабине `fr_a3_ride_under` (ещё наверху) оставлен светлым. Попутно: `OPEN.1_voucher` — портрет в тексте с пеной, а по спеке без пены (до душа).
-  - **После «да»:** 17 кадров → `assets/gfx/frames/`, оверлеи → `assets/gfx/cutouts/` (кадр целиком, без записи в `cutouts.json`); будет готово **221 из 263** рисунков (84 %). Дальше: 31 носитель документов (в т. ч. `photo_family`), 9 иконок, титул.
+- ★★★★★★★ **12.10.2026, позже — ПАКЕТ 6 НА ПРИЁМКЕ (ред. 2): юбка-шторка, 17 кадров немых сцен, полураздетая толпа во всей графике. ДАЛЬШЕ — с этого пункта.** Ветка `claude/fervent-cerf-gqukn3`, черновой PR #19. Сессия стартовала с ветки, совпадающей с `origin/main` (f60c987, слияние PR #18); открытых PR не было; впереди `main` только старые хвосты (`art-archive`, `gifted-faraday`, `intelligent-hypatia`).
+  - **Решения автора 12.10.2026 (действуют дальше):** (1) юбка тележки — шторка на кольцах, отодвигается вбок, не театральный занавес вверх (спека §2.7); (2) толпа на всех картинках, включая принятые, по возможности раздета — своими вещами, потому что полотенца и халаты изъяты банным днём (ответ автора): майки, подтяжки, семейные трусы, кальсоны, носки на подвязках, комбинации, ночнушки, бигуди, у мужчин на голове по-женски намотана своя рубашка или кофта (спека §1.4); (3) реплика `SEQ.peek.3` — «Человек сорок. И все, как назло, не вполне голые» (`texts/rewrite/ACT1_TEXTS_EDITS.md`, Акт I пересобран, `check_texts.py` — без ошибок).
+  - **Что в пакете:** оверлеи `ov_skirt`, `ov_skirt_open` (и тёмный `ov_skirt__dark` на вопрос); 17 кадров `fr_*`; замены принятых: `room_w2` (толпа), слои `st_w2_cascade_on`, `st_w2_iz_mic` (и бейдж), `st_w2u_crowd`, `st_w2u_parted`, `st_w2_forms1/forms3/kefir/vitrine_open` (очищены от кусков старой одежды), `zoom_z05` (ноги у витрины), `frames/fr_a4_cascade_duck`. Кандидаты и README — `work/higgsfield/candidates/pack6_1012/`; листы — `work/higgsfield/sheet_1012_pack6_frames.png`, `sheet_1012_pack6_skirt.png`, `sheet_1012_pack6_crowd.png` (было / стало).
+  - **Новые инструменты:** `tools/assets/skirt_overlay.py` (юбка с мадженты), `tools/assets/badge_text.py` (генератор каждый раз пишет на бейдже Изольды чужую фамилию), `tools/assets/refresh_layers.py` (чистка слоёв после правки основы), `grade_dark.py --no-protect`.
+  - **Вопросы автору (README пакета):** (1) тёмная юбка `ov_skirt_dark.png` для кадров до появления Кухтулху; (2) номера дверей коридора 306/307 и придуманные этажи лифта; (3) кадр в кабине оставлен светлым; (4) новая шторка у краёв прячет спутника гостьи у экспоната и почти касается громкоговорителя. Попутно: `OPEN.1_voucher` — портрет в тексте с пеной, а по спеке без пены.
+  - **После «да»:** кадры → `assets/gfx/frames/`, оверлеи → `assets/gfx/cutouts/`, замены принятых — на место (прежние → `work/orig_gfx/`, `…__одетые_до_12.10`), `cutouts.json` слить; будет готово **221 из 263** рисунков (84 %). Дальше: 31 носитель документов (в т. ч. `photo_family`), 9 иконок, титул.
 - ★★★★★★ **12.10.2026 — ПАКЕТ 5 ПРИНЯТ АВТОРОМ («да») И ПЕРЕНЕСЁН В `assets/`.** (прежняя точка входа) Ветка `claude/epic-carson-43ivoi`, PR #18.
   - **В `assets/`:** слои `st_w1_plunger`, `st_w1_cistern_open`, `st_w1_menu`, `st_w4_trolley_stairs`, `st_fr_a3_under_arrive_tentacles` (вариант 2б, затемнён); кадр `frames/fr_a3_under_arrive` (тёмный); новая папка `docs/` — `stamp_kuh` (красный), `stamp_hotel`, `mark_plunger`, `mark_thumb`, `mark_soap`; затемнены принятые `room_w5_under`, `st_w5u_reach`, `st_w5u_tentacles` (светлые — `work/orig_gfx/`, `…__светлый_до_12.10`). Готово **202 из 263** рисунков (77 %); звук — 6 из 59.
   - **Решения автора 12.10.2026 (действуют дальше):** до полного появления Кухтулху (`SEQ.come_out`) все кадры тёмные — затемнение `tools/assets/grade_dark.py`, одно для основ и слоёв (исключение из нормы яркости DESIGN_BIBLE §9); музыка до и после её появления разная — тревожная тема «до» в звуковом пакете; щупальца не обрубленные: целые, сужаются к кончику, нарукавник посередине; генератор не меняем — GPT Image 2.5 на Higgsfield, без маски и без API OpenAI («весь стиль игры уедет»).
